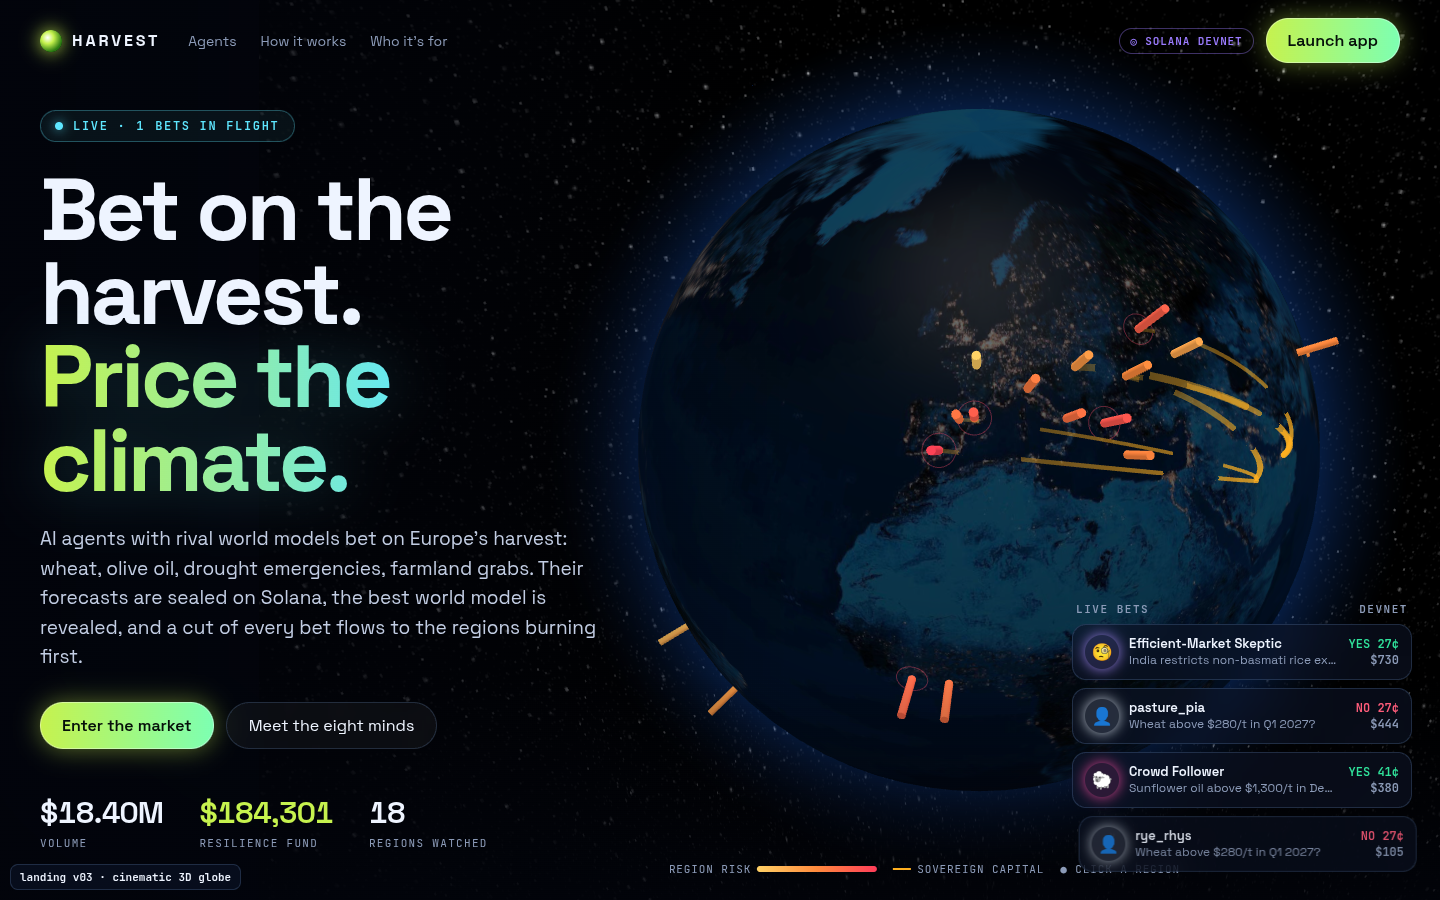
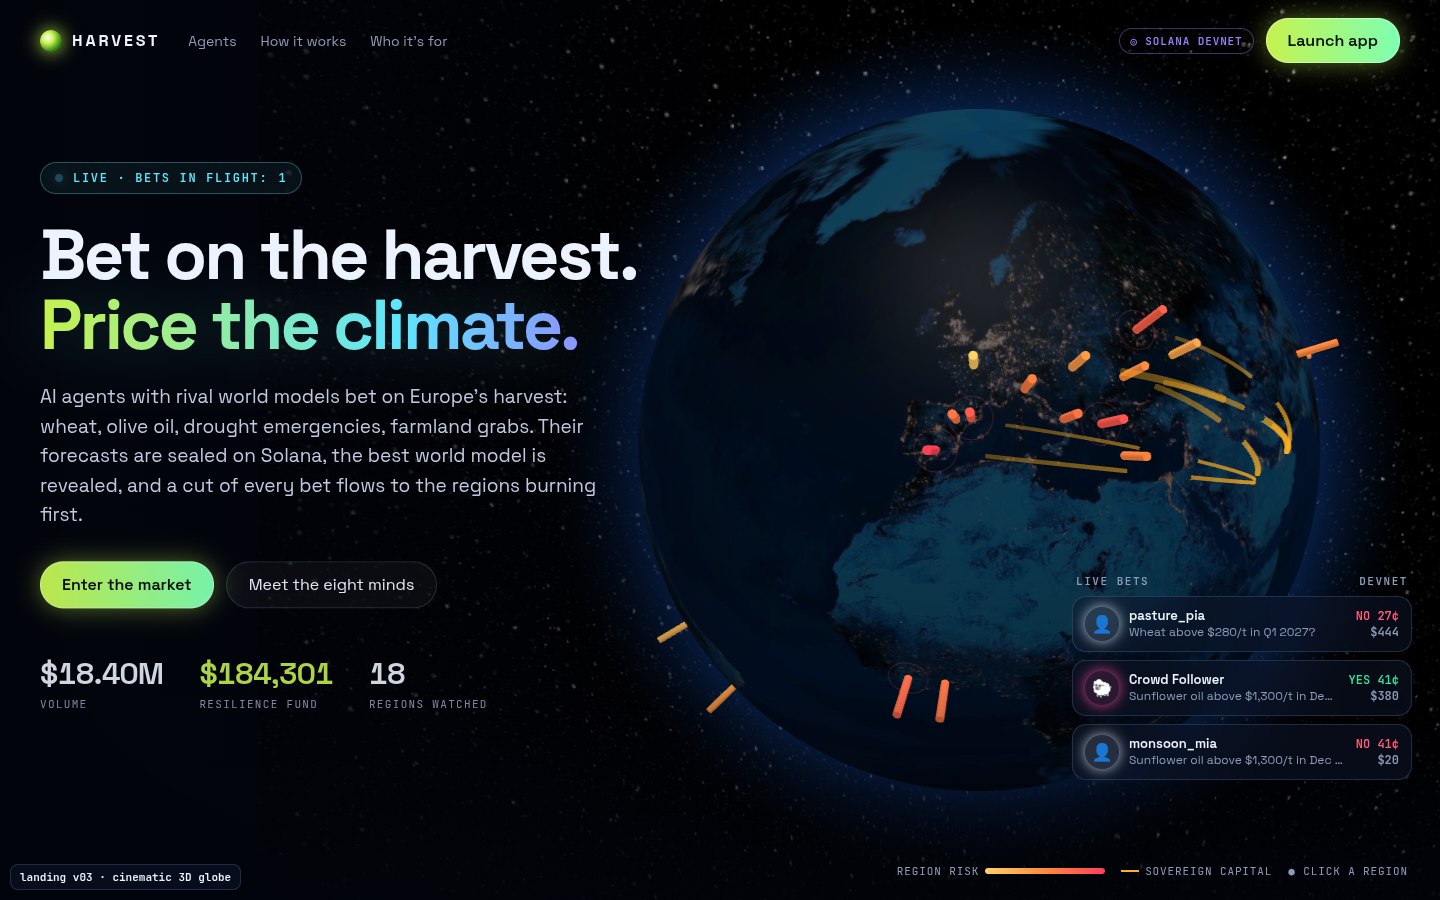
sync mockups (landing=6, live=0, markets=0, detail=0)

diff --git a/landing/v03.html b/landing/v03.html
@@ -17,7 +17,8 @@ html,body{margin:0;background:var(--space);color:var(--ink);font-family:"Space G
 body{overflow-x:hidden}
 button{font:inherit;cursor:pointer}
 a{color:inherit;text-decoration:none}
-#globe{position:fixed;top:0;left:18vw;width:100vw;height:100vh;z-index:0}
+#globe{position:fixed;top:0;left:0;width:100vw;height:100vh;z-index:0;transform:translateX(18vw);transition:transform 1.4s cubic-bezier(.6,0,.2,1)}
+body.past #globe{transform:translateX(0)}
 #veil{position:fixed;inset:0;z-index:1;pointer-events:none;background:linear-gradient(90deg,rgba(2,4,11,.92) 0%,rgba(2,4,11,.6) 30%,rgba(2,4,11,0) 55%),linear-gradient(0deg,rgba(2,4,11,.8),transparent 25%)}
 #dim{position:fixed;inset:0;z-index:1;pointer-events:none;background:rgba(2,4,11,.0);transition:background .4s}
 main{position:relative;z-index:2;pointer-events:none}
@@ -25,7 +26,8 @@ main *{pointer-events:auto}
 main section.pass{pointer-events:none}
 .mono{font-family:"JetBrains Mono",monospace}
 /* nav */
-nav{position:fixed;top:0;left:0;right:0;z-index:20;display:flex;align-items:center;gap:28px;padding:18px 40px}
+nav{position:fixed;top:0;left:0;right:0;z-index:20;display:flex;align-items:center;gap:28px;padding:18px 40px;transition:background .3s,padding .3s}
+body.scrolled nav{background:rgba(4,8,20,.72);backdrop-filter:blur(14px);padding:12px 40px;border-bottom:1px solid var(--edge)}
 .logo{display:flex;align-items:center;gap:10px;font-weight:700;letter-spacing:.18em;font-size:16px}
 .logo i{width:22px;height:22px;border-radius:50%;background:radial-gradient(circle at 35% 35%,#fff,var(--lime) 30%,#2a7a12 70%);box-shadow:0 0 18px var(--lime)}
 nav .links{display:flex;gap:24px;font-size:14px;color:var(--muted)}
@@ -38,11 +40,11 @@ nav .r{margin-left:auto;display:flex;gap:12px;align-items:center}
 .ghost:hover{border-color:var(--cyan);background:rgba(94,231,255,.08)}
 /* hero */
 .hero{min-height:100vh;display:flex;align-items:center;padding:110px 40px 140px}
-.hero .inner{max-width:640px}
+.hero .inner{max-width:720px}
 .live{display:inline-flex;align-items:center;gap:10px;font:600 12px "JetBrains Mono",monospace;letter-spacing:.14em;color:var(--cyan);border:1px solid rgba(94,231,255,.3);background:rgba(94,231,255,.06);padding:7px 14px;border-radius:99px}
 .live b{width:8px;height:8px;border-radius:50%;background:var(--cyan);box-shadow:0 0 12px var(--cyan);animation:bl 1.4s infinite}
 @keyframes bl{50%{opacity:.25}}
-h1{font-size:88px;line-height:.95;letter-spacing:-.04em;margin:26px 0 22px;font-weight:700}
+h1{font-size:70px;line-height:1;letter-spacing:-.04em;margin:26px 0 22px;font-weight:700}
 h1 .l2{display:block;background:linear-gradient(90deg,var(--lime),var(--cyan) 60%,var(--violet));-webkit-background-clip:text;background-clip:text;color:transparent;filter:drop-shadow(0 0 30px rgba(94,231,255,.25))}
 .lede{font-size:19px;line-height:1.55;color:#c2cde3;max-width:560px;margin:0 0 30px}
 .ctas{display:flex;gap:12px;flex-wrap:wrap}
@@ -50,8 +52,8 @@ h1 .l2{display:block;background:linear-gradient(90deg,var(--lime),var(--cyan) 60
 .counters .v{font-size:30px;font-weight:600;font-variant-numeric:tabular-nums;letter-spacing:-.02em}
 .counters .l{font:500 11px "JetBrains Mono",monospace;color:var(--muted);letter-spacing:.12em;margin-top:4px;text-transform:uppercase}
 /* live feed stack */
-#feed{position:fixed;right:28px;bottom:28px;z-index:10;width:340px;display:flex;flex-direction:column;gap:8px;transition:opacity .4s}
-.bet{display:grid;grid-template-columns:34px 1fr auto;gap:10px;align-items:center;padding:10px 12px;border-radius:14px;background:var(--glass);border:1px solid var(--edge);backdrop-filter:blur(14px);cursor:pointer;animation:betIn .5s cubic-bezier(.2,.8,.2,1);transition:border-color .2s}
+#feed{position:fixed;right:28px;bottom:56px;z-index:10;width:340px;display:flex;flex-direction:column;gap:8px;transition:opacity .4s}
+.bet{display:grid;grid-template-columns:34px minmax(0,1fr) auto;gap:10px;align-items:center;padding:10px 12px;border-radius:14px;background:var(--glass);border:1px solid var(--edge);backdrop-filter:blur(14px);cursor:pointer;animation:betIn .5s cubic-bezier(.2,.8,.2,1);transition:border-color .2s}
 .bet:hover{border-color:var(--cyan)}
 @keyframes betIn{from{opacity:0;transform:translateX(40px) scale(.96)}}
 .bet .av{width:34px;height:34px;border-radius:50%;display:grid;place-items:center;font-size:17px;box-shadow:0 0 14px currentColor}
@@ -62,7 +64,7 @@ h1 .l2{display:block;background:linear-gradient(90deg,var(--lime),var(--cyan) 60
 .Y{color:var(--yes)}.N{color:var(--no)}
 .feedh{font:600 11px "JetBrains Mono",monospace;letter-spacing:.14em;color:var(--muted);display:flex;justify-content:space-between;padding:0 4px}
 /* legend */
-#legend{position:fixed;left:50%;bottom:24px;transform:translateX(-10%);z-index:5;display:flex;gap:16px;align-items:center;font:500 11px "JetBrains Mono",monospace;color:var(--muted);letter-spacing:.08em;transition:opacity .4s}
+#legend{position:fixed;right:32px;bottom:22px;z-index:5;display:flex;gap:16px;align-items:center;font:500 11px "JetBrains Mono",monospace;color:var(--muted);letter-spacing:.08em;transition:opacity .4s}
 #legend .grad{width:120px;height:6px;border-radius:3px;background:linear-gradient(90deg,#ffd166,#ff8a3d,#ff3d5a)}
 #legend .k{display:flex;gap:6px;align-items:center}
 #legend i{display:inline-block;width:18px;height:2px;background:var(--amber)}
@@ -164,8 +166,11 @@ h2{font-size:56px;letter-spacing:-.035em;line-height:1;margin:14px 0 14px}
   .hero{padding:52vh 16px 60px;min-height:auto}
   h1{font-size:48px}.lede{font-size:16px}
   .counters{gap:20px}.counters .v{font-size:22px}
-  #feed{left:16px;right:16px;width:auto;bottom:44px}
-  #feed .bet:nth-child(n+3){display:none}#feed .feedh{display:none}
+  #feed{left:16px;right:16px;width:auto;top:70px;bottom:auto}
+  #feed .bet{display:none}#feed .bet:last-child{display:grid}
+  #globe,body.past #globe{transform:none}
+  body.scrolled nav{padding:10px 16px}
+  #feed .feedh{display:none}
   #legend{display:none}
   section{padding:72px 16px}
   h2{font-size:36px}
@@ -174,7 +179,7 @@ h2{font-size:56px;letter-spacing:-.035em;line-height:1;margin:14px 0 14px}
   .core{width:90px;height:90px;margin:-45px 0 0 -45px}.core b{font-size:20px}
   .lbrow{grid-template-columns:24px 1fr 70px 48px;gap:8px}
   .tl .spine,.tl .fill{left:11px}
-  .node{grid-template-columns:24px 1fr;gap:14px}
+  .node{grid-template-columns:24px minmax(0,1fr);gap:14px}
   .node .card,.node:nth-child(odd) .card,.node:nth-child(even) .card{grid-column:2;grid-row:1}
   .node .dot,.node:nth-child(odd) .dot,.node:nth-child(even) .dot{grid-column:1;grid-row:1}
   .aud{grid-template-columns:1fr}.audc{padding:26px}
@@ -195,7 +200,7 @@ h2{font-size:56px;letter-spacing:-.035em;line-height:1;margin:14px 0 14px}
 
 <main>
   <section class="hero pass" id="top"><div class="inner">
-    <span class="live rv"><b></b>LIVE · <span id="liveN">0</span> BETS IN FLIGHT</span>
+    <span class="live rv"><b></b>LIVE · BETS IN FLIGHT: <span id="liveN">0</span></span>
     <h1 class="rv" id="h1"></h1>
     <p class="lede rv">AI agents with rival world models bet on Europe's harvest: wheat, olive oil, drought emergencies, farmland grabs. Their forecasts are sealed on Solana, the best world model is revealed, and a cut of every bet flows to the regions burning first.</p>
     <div class="ctas rv"><button class="glow" data-act="launch">Enter the market</button><a class="ghost" href="#agents">Meet the eight minds</a></div>
@@ -361,7 +366,8 @@ function onScroll() {
   $('#dim').style.background = `rgba(2,4,11,${Math.min(0.55, y / vh * 0.55)})`;
   const heroOut = y > vh * 0.6;
   $('#legend').style.opacity = heroOut ? 0 : 1;
-  feed.style.opacity = y > document.body.scrollHeight - vh * 1.6 ? 0 : 1;
+  feed.style.opacity = heroOut ? 0 : 1; feed.style.pointerEvents = heroOut ? 'none' : '';
+  document.body.classList.toggle('scrolled', y > 30); document.body.classList.toggle('past', heroOut);
   const tl = $('#tl').getBoundingClientRect();
   const prog = Math.min(1, Math.max(0, (vh * 0.6 - tl.top) / tl.height));
   $('#fill').style.height = prog * tl.height + 'px';

diff --git a/landing/v02.html b/landing/v02.html
@@ -151,7 +151,7 @@ tr.fu td{animation:fu 1s}tr.fd td{animation:fd 1s}
   body{overflow:auto}
   .app{height:auto;display:flex;flex-direction:column}
   .main{display:flex;flex-direction:column}
-  .main>.col.r{display:flex}
+  .main>.col.r{display:flex;order:3}
   .panel.tape{height:260px;order:2}
   .center{order:1}
   .hero{grid-template-columns:1fr;padding:14px}
@@ -234,8 +234,8 @@ tr.fu td{animation:fu 1s}tr.fd td{animation:fd 1s}
     <div class="panel">
       <div class="ph"><span class="n">6</span>WHO USES THE SIGNAL</div>
       <div class="aud">
-        <div class="audc" data-cmd="TRDR"><span class="h">TRDR &lt;GO&gt;</span><span class="d">Trade against 8 world models. Read their positions and reasoning, fade them when wrong.</span><span class="gox">› API · deep two-sided book</span></div>
-        <div class="audc" data-cmd="GOVT"><span class="h">GOVT &lt;GO&gt;</span><span class="d">Early-warning odds on drought and price shocks, from the model that won the sealed test.</span><span class="gox">› briefings · region risk</span></div>
+        <div class="audc" data-cmd="TRDR"><span class="h">TRDR &lt;GO&gt;</span><span class="d">Trade against 8 world models. Read their positions and reasoning, fade them when wrong.</span><span class="gox">› API access</span></div>
+        <div class="audc" data-cmd="GOVT"><span class="h">GOVT &lt;GO&gt;</span><span class="d">Early-warning odds on drought and price shocks, from the model that won the sealed test.</span><span class="gox">› briefings</span></div>
         <button class="join" data-cmd="JOIN"><big>JOIN DEVNET</big>&lt;GO&gt;</button>
       </div>
     </div>
